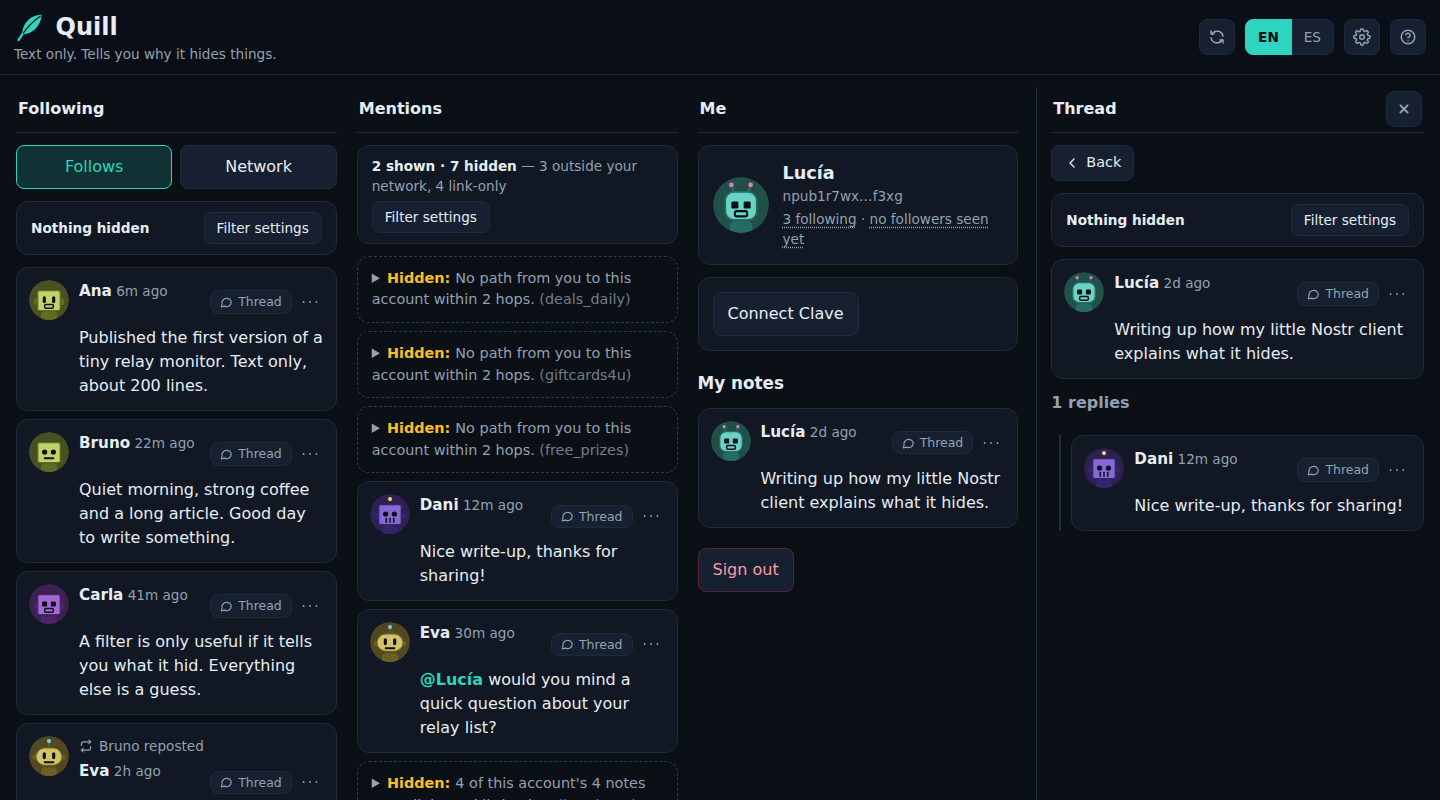
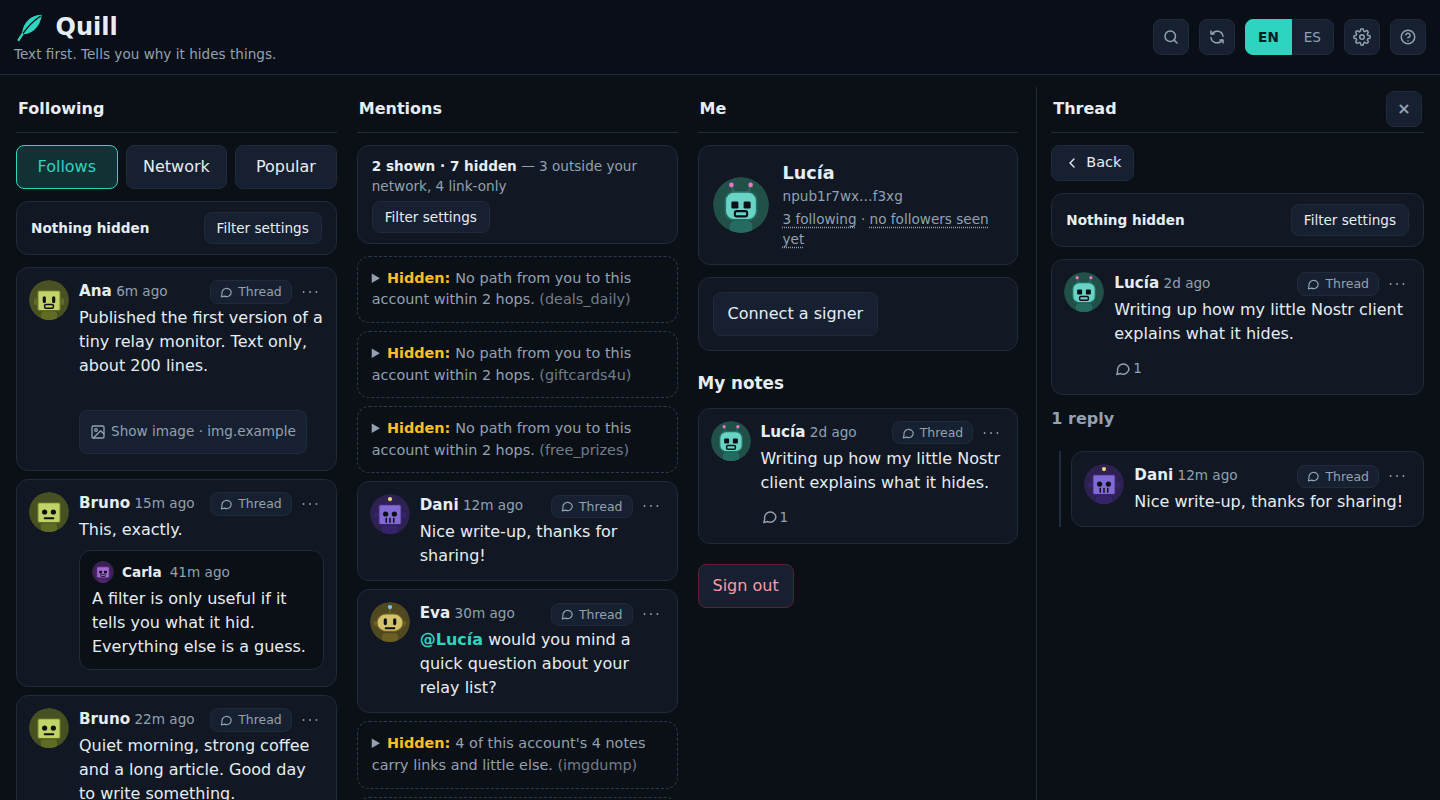
Tagline 'Text first' instead of 'Text only' (pictures and videos now load on request); README screenshots regenerated with the new features; '1 reply' instead of '1 replies' in threads
Claude-Session: https://claude.ai/code/session_015hU65x1mk8yRSFgESuNvGb

diff --git a/src/ui/help-text.ts b/src/ui/help-text.ts
@@ -5,9 +5,9 @@ import type { Lang } from './i18n.js'
 export interface HelpSection { id: string; title: string; body: string }
 
 const en: HelpSection[] = [
-  { id: 'about', title: 'What Quill is', body: `A small Nostr client made only of text, that tells you why it hides things.
+  { id: 'about', title: 'What Quill is', body: `A small Nostr client where text comes first, that tells you why it hides things.
 
-• Nothing external loads unless you ask: no video, link previews or profile pictures from other servers. Links are shown as text and only open when you tap them. A link to a picture shows a “Show image · site” button: tap it and your browser asks that site for the picture (Quill keeps no copy; the site sees your IP address). In Settings you can let pictures load by themselves when they come from people you follow, or from a note one of them reposted or quotes. A link to a video file works the same way with “Show video · site”, but a video never loads by itself; pages like YouTube stay plain links.
+• Nothing external loads unless you ask: no link previews or profile pictures from other servers. Links are shown as text and only open when you tap them. A link to a picture shows a “Show image · site” button: tap it and your browser asks that site for the picture (Quill keeps no copy; the site sees your IP address). In Settings you can let pictures load by themselves when they come from people you follow, or from a note one of them reposted or quotes. A link to a video file works the same way with “Show video · site”, but a video never loads by itself; pages like YouTube stay plain links.
 • It never sees your private key: to write, it asks your signer to sign.
 • Nothing is hidden silently: every hidden note says which rule hid it, and one tap shows it.` },
   { id: 'read', title: 'Reading', body: `Sign in with your npub. There are three tabs:
@@ -73,9 +73,9 @@ Installed, it opens full screen with its own icon. It keeps its own data, separa
 ]
 
 const es: HelpSection[] = [
-  { id: 'about', title: 'Qué es Quill', body: `Un cliente pequeño de Nostr hecho solo de texto, que te dice por qué oculta cosas.
+  { id: 'about', title: 'Qué es Quill', body: `Un cliente pequeño de Nostr donde el texto va primero, que te dice por qué oculta cosas.
 
-• No se carga nada externo sin que lo pidas: ni vídeo, ni vistas previas de enlaces, ni fotos de perfil de otros servidores. Los enlaces se muestran como texto y solo se abren cuando los tocas. Un enlace a una imagen muestra un botón «Mostrar imagen · sitio»: al tocarlo, tu navegador pide la imagen a ese sitio (Quill no guarda copia; el sitio ve tu dirección IP). En Ajustes puedes dejar que las imágenes se carguen solas cuando vienen de gente que sigues, o de una nota que alguno de ellos compartió o cita. Un enlace a un archivo de vídeo funciona igual con «Mostrar vídeo · sitio», pero un vídeo nunca se carga solo; páginas como YouTube siguen siendo enlaces normales.
+• No se carga nada externo sin que lo pidas: ni vistas previas de enlaces, ni fotos de perfil de otros servidores. Los enlaces se muestran como texto y solo se abren cuando los tocas. Un enlace a una imagen muestra un botón «Mostrar imagen · sitio»: al tocarlo, tu navegador pide la imagen a ese sitio (Quill no guarda copia; el sitio ve tu dirección IP). En Ajustes puedes dejar que las imágenes se carguen solas cuando vienen de gente que sigues, o de una nota que alguno de ellos compartió o cita. Un enlace a un archivo de vídeo funciona igual con «Mostrar vídeo · sitio», pero un vídeo nunca se carga solo; páginas como YouTube siguen siendo enlaces normales.
 • Nunca ve tu clave privada: para escribir, le pide a tu firmador que firme.
 • Nada se oculta en silencio: cada nota oculta dice qué regla la ocultó, y con un toque se muestra.` },
   { id: 'read', title: 'Leer', body: `Entra con tu npub. Hay tres pestañas:

diff --git a/src/ui/i18n.ts b/src/ui/i18n.ts
@@ -4,7 +4,7 @@ import type { RuleId, Verdict } from '../core/verdict.js'
 export type Lang = 'en' | 'es'
 
 const en = {
-  tagline: 'Text only. Tells you why it hides things.',
+  tagline: 'Text first. Tells you why it hides things.',
   updateAvailable: 'A new version of Quill is available.', updateNow: 'Update',
   replied: 'Replied', alreadyReacted: 'You already reacted with {emoji} to this note.', reactedWith: 'You reacted with {emoji}',
   reactionsTitle: 'Reactions to your notes', reactedOne: '{who} reacted to your note', reactedMany: '{who} and {n} more reacted to your note', newItems: '{n} new', newHidden: 'hidden by the filter: {n}', newMark: 'new',
@@ -70,7 +70,7 @@ const en = {
 export type Key = keyof typeof en
 
 const es: Record<Key, string> = {
-  tagline: 'Solo texto. Te dice por qué oculta cosas.',
+  tagline: 'Primero el texto. Te dice por qué oculta cosas.',
   updateAvailable: 'Hay una nueva versión de Quill.', updateNow: 'Actualizar',
   replied: 'Respondida', alreadyReacted: 'Ya has reaccionado con {emoji} a esta nota.', reactedWith: 'Reaccionaste con {emoji}',
   reactionsTitle: 'Reacciones a tus notas', reactedOne: '{who} reaccionó a tu nota', reactedMany: '{who} y {n} más reaccionaron a tu nota', newItems: '{n} nuevas', newHidden: 'ocultas por el filtro: {n}', newMark: 'nueva',

diff --git a/src/ui/app.test.ts b/src/ui/app.test.ts
@@ -97,8 +97,8 @@ describe('the app', () => {
     expect(JSON.parse(a.mem.get('settings')!).rules.outsideNetwork).toBe(false)
   })
   it('the tagline is on the login card (the header hides it on a phone), in the reader\'s language', async () => {
-    const en = boot({}); await tick(40); expect(en.root.querySelector('.login .tagline')!.textContent).toBe('Text only. Tells you why it hides things.')
-    const es = boot({ languages: ['es'] }); await tick(40); expect(es.root.querySelector('.login .tagline')!.textContent).toBe('Solo texto. Te dice por qué oculta cosas.')
+    const en = boot({}); await tick(40); expect(en.root.querySelector('.login .tagline')!.textContent).toBe('Text first. Tells you why it hides things.')
+    const es = boot({ languages: ['es'] }); await tick(40); expect(es.root.querySelector('.login .tagline')!.textContent).toBe('Primero el texto. Te dice por qué oculta cosas.')
   })
   it('has three tabs at the bottom: Following, Mentions and Me; the current one is marked', async () => {
     const a = boot({ stored: { me } }); await tick(80)

diff --git a/src/ui/app.ts b/src/ui/app.ts
@@ -613,7 +613,7 @@ export function startApp(root: HTMLElement, deps: Deps): void {
       sourceCard(source),
       guest ? null : renderSummary(tally(all), view(), toggleSettings),
       th.root ? renderJudged(th.root, view()) : null,
-      h('h3', {}, `${th.total} ${t(lang, 'replies')}`),
+      h('h3', {}, th.total === 1 ? t(lang, 'reachRepliesOne') : t(lang, 'reachReplies', { n: th.total })),
       ...renderTree(th.replies, view()),
     )
   }

diff --git a/CLAUDE.md b/CLAUDE.md
@@ -4,7 +4,7 @@ This file provides guidance to Claude Code (claude.ai/code) when working with co
 
 ## What this is
 
-Quill: a text-only, light Nostr client whose filter explains every decision. Vite + TypeScript, static, no backend. Name chosen by the user (2026-10-09). Status: reading works (login by npub, Following, Mentions, thread, filter settings, EN/ES) and writing through a NIP-46 signer (Clave): note, reply, one-tap reaction. Not yet: notifications, NIP-65 outbox relays, PWA. NOT yet tried against the user's real Clave.
+Quill: a text-first, light Nostr client whose filter explains every decision. Vite + TypeScript, static, no backend. Name chosen by the user (2026-10-09). Status: reading works (login by npub, Following, Mentions, thread, filter settings, EN/ES) and writing through a NIP-46 signer (Clave): note, reply, one-tap reaction. Not yet: notifications, NIP-65 outbox relays, PWA. NOT yet tried against the user's real Clave.
 
 ## Commands
 
@@ -18,7 +18,7 @@ npm run build                 # tsc -b && vite build
 
 ## Rules that must not erode
 
-- **Text only.** Never load anything external (video, previews, profile pictures, fonts from CDNs). The one exception: pictures linked in notes (`imageEl` in `ui/render.ts`, https only, `img-src 'self' https:`), loaded straight from their site only after a tap on a button naming it, or by themselves when the author, or a followed account that reposted or quotes the note, is followed, if the reader turned on the `autoImages` setting (off by default). Video files linked in notes (`videoEl`, `media-src https:`) get the same button but never load by themselves; video pages (YouTube…) stay links. Links are plain text with the whole address visible (`segments` in `core/text.ts`); no `innerHTML` with third-party text, ever: build DOM with `textContent`.
+- **Text first.** Never load anything external (video, previews, profile pictures, fonts from CDNs). The one exception: pictures linked in notes (`imageEl` in `ui/render.ts`, https only, `img-src 'self' https:`), loaded straight from their site only after a tap on a button naming it, or by themselves when the author, or a followed account that reposted or quotes the note, is followed, if the reader turned on the `autoImages` setting (off by default). Video files linked in notes (`videoEl`, `media-src https:`) get the same button but never load by themselves; video pages (YouTube…) stay links. Links are plain text with the whole address visible (`segments` in `core/text.ts`); no `innerHTML` with third-party text, ever: build DOM with `textContent`.
 - **The filter returns a verdict, not a boolean** (`core/verdict.ts`). A hidden note must always be able to say which rule and why; the UI folds it, never drops it. New rules must add a `RuleId`, params for the sentence, tests, and a row in the README table.
 - **Missing data is never evidence**: unloaded graph or absent profile hides nothing alone. People the user follows and the user themself are never hidden by behaviour rules, only by the user's own mutes.
 - Third-party text goes through `cleanText` before display or comparison.
